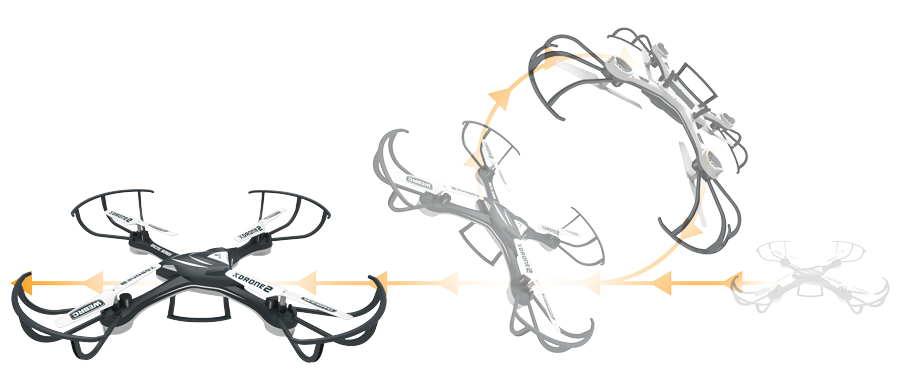
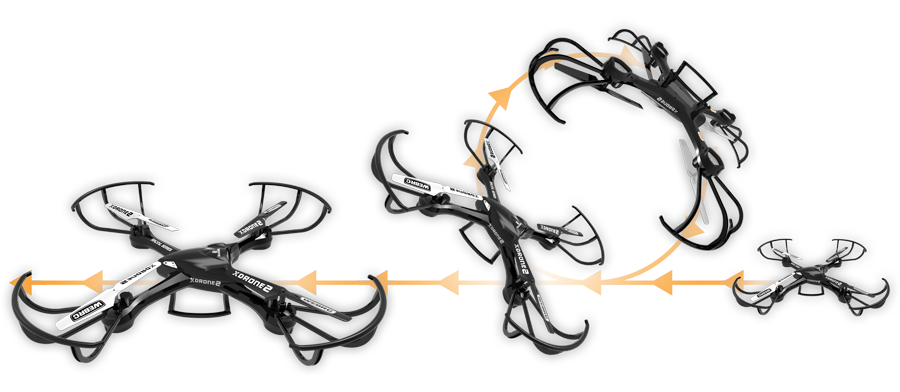
Updated images for xdrone-2, pro-2, and hd-2

Changed region(s): [[0.0, 0.0612, 0.9956, 0.949]]

diff --git a/xdrone-pro-2.html b/xdrone-pro-2.html
@@ -99,7 +99,7 @@ description: "XDrone Pro 2: Capable of flying indoors or outdoors and recording 
         <p class="lead">Take a picture or record a video of flights at up to 20 mph with the built-in video camera.</p>
       </div>
       <div class="span4 offset2">
-        <img src="img/xdrone-pro-2/xdrone-pro-2-camera.jpg" alt="xdrone HD's high definition camera" class="">
+        <img src="img/xdrone-pro-2/xdrone-pro-2-camera.PNG" alt="xdrone HD's high definition camera" class="">
       </div>
     </div>
   </div>

diff --git a/xdrone-2.html b/xdrone-2.html
@@ -100,7 +100,7 @@ description: "XDrone 2: Capable of flying indoors or outdoors at up to 20mph it'
 
   <!-- Big XDrone HD Packaging Image -->
   <div class="big-image">
-    <img id="xdroneimage" src="img/xdrone-2/xdrone-2-packaging.jpg" alt="XDrone HD Packaging">
+    <img id="xdroneimage" src="img/xdrone-2/xdrone-2-packaging.PNG" alt="XDrone HD Packaging">
   </div>
   <!-- /Big XDrone HD Packaging Image -->
 

diff --git a/xdrone-hd-2.html b/xdrone-hd-2.html
@@ -100,7 +100,7 @@ description: "XDrone HD2: Capable of flying indoors or outdoors and recording HD
 </p>
       </div>
       <div class="span4 offset2">
-        <img src="img/xdrone-hd-2/xdrone-hd-2-camera.jpg" alt="xdrone HD's high definition camera" class="">
+        <img src="img/xdrone-hd-2/xdrone-hd-2-camera.png" alt="xdrone HD's high definition camera" class="">
       </div>
     </div>
   </div>
